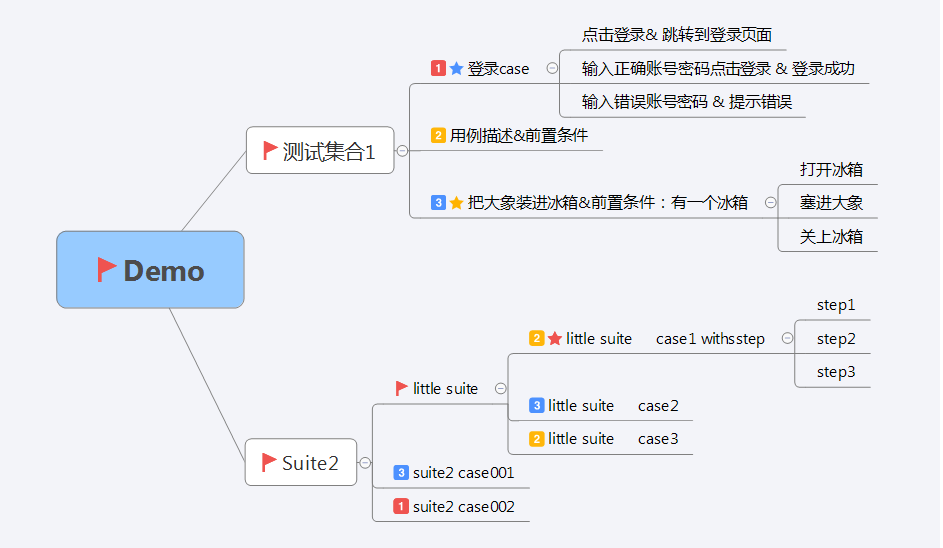
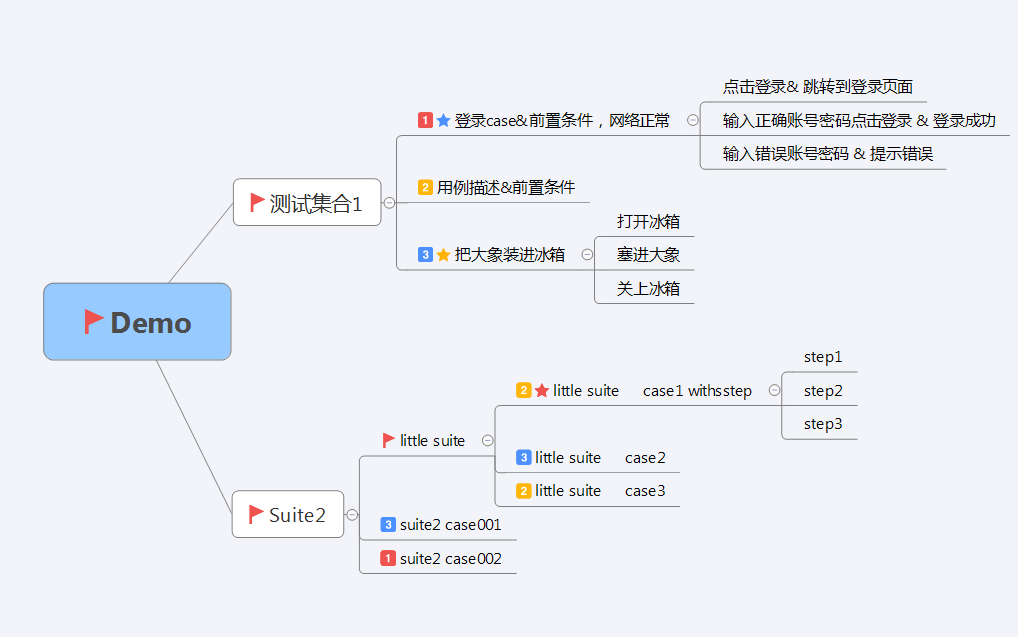
增加用例编写时 摘要和前提的内容区分 更新README

diff --git a/demo.mm b/demo.mm
@@ -1,1 +1,1 @@
-<?xml version="1.0" encoding="UTF-8" standalone="no"?><map version="0.8.1"><node CREATED="1526834868815" ID="2mbb8u0pis58sm0afg3dv05159" MODIFIED="1526834868815" TEXT="Demo"><icon BUILTIN="flag"/><node CREATED="1526834868815" ID="0na7p7nug3nb1tqld57g34amkn" MODIFIED="1526834868815" POSITION="right" TEXT="测试集合1"><icon BUILTIN="flag"/><node CREATED="1526834868815" ID="50br16m4kvs9arsegomucmc27g" MODIFIED="1526834868815" TEXT="登录case"><icon BUILTIN="full-1"/><icon BUILTIN="bookmark"/><node CREATED="1526834868816" ID="1b7liubfm61sef8ktl6ih5j28s" MODIFIED="1526834868816" TEXT="点击登录&amp; 跳转到登录页面"/><node CREATED="1526834868816" ID="0mkk838mgk2vc00nlunkn9amkf" MODIFIED="1526834868816" TEXT="输入正确账号密码点击登录 &amp; 登录成功"/><node CREATED="1526834868816" ID="1ijcgvd2g9i2055mmkc5u3ndb1" MODIFIED="1526834868816" TEXT="输入错误账号密码 &amp; 提示错误"/></node><node CREATED="1526834868816" ID="7h5s6a03foa2o30us36vnb7lrb" MODIFIED="1526834868816" TEXT="用例描述&amp;前置条件"><icon BUILTIN="full-2"/></node><node CREATED="1526834868816" ID="7ba49kqtdi0ffuraq518mkpau8" MODIFIED="1526834868816" TEXT="把大象装进冰箱&amp;前置条件：有一个冰箱"><icon BUILTIN="full-3"/><icon BUILTIN="bookmark"/><node CREATED="1526834868816" ID="6tpjkmn3nc4ir4tq4trmaocfc1" MODIFIED="1526834868816" TEXT="打开冰箱"/><node CREATED="1526834868816" ID="7slm6lucbjbvnl5fkfo81dk1dt" MODIFIED="1526834868816" TEXT="塞进大象"/><node CREATED="1526834868816" ID="0j97g6ldt6khf04djg2j8kn3jq" MODIFIED="1526834868816" TEXT="关上冰箱"/></node></node><node CREATED="1526834868816" ID="44dnfphe1u931rdjm6ac3a1ph4" MODIFIED="1526834868816" POSITION="right" TEXT="Suite2"><icon BUILTIN="flag"/><node CREATED="1526834868816" ID="5mrck69cuqsc4ftugt9ehcso0o" MODIFIED="1526834868816" TEXT="little suite"><icon BUILTIN="flag"/><node CREATED="1526834868816" ID="7eju2hqb8ead53n6riq0v6tu28" MODIFIED="1526834868816" TEXT="little suite     case1 withsstep"><icon BUILTIN="bookmark"/><icon BUILTIN="full-2"/><node CREATED="1526834868816" ID="3gfa8rcb16s33tnklos4jjfkao" MODIFIED="1526834868816" TEXT="step1"/><node CREATED="1526834868816" ID="3ka1h8vtofmbsv9fd0glhrfntb" MODIFIED="1526834868816" TEXT="step2"/><node CREATED="1526834868816" ID="2ljap45t9b81rpavnhi4v21cil" MODIFIED="1526834868816" TEXT="step3"/></node><node CREATED="1526834868816" ID="437dk1q47m6ti36imrtq8f9h0c" MODIFIED="1526834868816" TEXT="little suite     case2"><icon BUILTIN="full-3"/></node><node CREATED="1526834868816" ID="0sptqm2e6k0sluqeji4s0e6ilb" MODIFIED="1526834868816" TEXT="little suite     case3"><icon BUILTIN="full-2"/></node></node><node CREATED="1526834868816" ID="51c511cbcef77tdm3jlfo5gbop" MODIFIED="1526834868816" TEXT="suite2 case001"><icon BUILTIN="full-3"/></node><node CREATED="1526834868816" ID="1aeuseik1llua78cpldbekopdn" MODIFIED="1526834868816" TEXT="suite2 case002"><icon BUILTIN="full-1"/></node></node></node></map>
+<?xml version="1.0" encoding="UTF-8" standalone="no"?><map version="0.8.1"><node CREATED="1526836158527" ID="2mbb8u0pis58sm0afg3dv05159" MODIFIED="1526836158527" TEXT="Demo"><icon BUILTIN="flag"/><node CREATED="1526836158527" ID="0na7p7nug3nb1tqld57g34amkn" MODIFIED="1526836158527" POSITION="right" TEXT="测试集合1"><icon BUILTIN="flag"/><node CREATED="1526836158527" ID="50br16m4kvs9arsegomucmc27g" MODIFIED="1526836158527" TEXT="登录case&amp;前置条件，网络正常"><icon BUILTIN="full-1"/><icon BUILTIN="bookmark"/><node CREATED="1526836158527" ID="1b7liubfm61sef8ktl6ih5j28s" MODIFIED="1526836158527" TEXT="点击登录&amp; 跳转到登录页面"/><node CREATED="1526836158527" ID="0mkk838mgk2vc00nlunkn9amkf" MODIFIED="1526836158527" TEXT="输入正确账号密码点击登录 &amp; 登录成功"/><node CREATED="1526836158527" ID="1ijcgvd2g9i2055mmkc5u3ndb1" MODIFIED="1526836158527" TEXT="输入错误账号密码 &amp; 提示错误"/></node><node CREATED="1526836158527" ID="7h5s6a03foa2o30us36vnb7lrb" MODIFIED="1526836158527" TEXT="用例描述&amp;前置条件"><icon BUILTIN="full-2"/></node><node CREATED="1526836158527" ID="7ba49kqtdi0ffuraq518mkpau8" MODIFIED="1526836158527" TEXT="把大象装进冰箱"><icon BUILTIN="full-3"/><icon BUILTIN="bookmark"/><node CREATED="1526836158527" ID="6tpjkmn3nc4ir4tq4trmaocfc1" MODIFIED="1526836158527" TEXT="打开冰箱"/><node CREATED="1526836158527" ID="7slm6lucbjbvnl5fkfo81dk1dt" MODIFIED="1526836158527" TEXT="塞进大象"/><node CREATED="1526836158527" ID="0j97g6ldt6khf04djg2j8kn3jq" MODIFIED="1526836158527" TEXT="关上冰箱"/></node></node><node CREATED="1526836158527" ID="44dnfphe1u931rdjm6ac3a1ph4" MODIFIED="1526836158527" POSITION="right" TEXT="Suite2"><icon BUILTIN="flag"/><node CREATED="1526836158528" ID="5mrck69cuqsc4ftugt9ehcso0o" MODIFIED="1526836158528" TEXT="little suite"><icon BUILTIN="flag"/><node CREATED="1526836158528" ID="7eju2hqb8ead53n6riq0v6tu28" MODIFIED="1526836158528" TEXT="little suite     case1 withsstep"><icon BUILTIN="bookmark"/><icon BUILTIN="full-2"/><node CREATED="1526836158528" ID="3gfa8rcb16s33tnklos4jjfkao" MODIFIED="1526836158528" TEXT="step1"/><node CREATED="1526836158528" ID="3ka1h8vtofmbsv9fd0glhrfntb" MODIFIED="1526836158528" TEXT="step2"/><node CREATED="1526836158528" ID="2ljap45t9b81rpavnhi4v21cil" MODIFIED="1526836158528" TEXT="step3"/></node><node CREATED="1526836158528" ID="437dk1q47m6ti36imrtq8f9h0c" MODIFIED="1526836158528" TEXT="little suite     case2"><icon BUILTIN="full-3"/></node><node CREATED="1526836158528" ID="0sptqm2e6k0sluqeji4s0e6ilb" MODIFIED="1526836158528" TEXT="little suite     case3"><icon BUILTIN="full-2"/></node></node><node CREATED="1526836158528" ID="51c511cbcef77tdm3jlfo5gbop" MODIFIED="1526836158528" TEXT="suite2 case001"><icon BUILTIN="full-3"/></node><node CREATED="1526836158528" ID="1aeuseik1llua78cpldbekopdn" MODIFIED="1526836158528" TEXT="suite2 case002"><icon BUILTIN="full-1"/></node></node></node></map>
